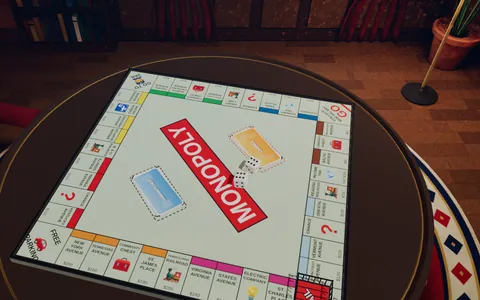
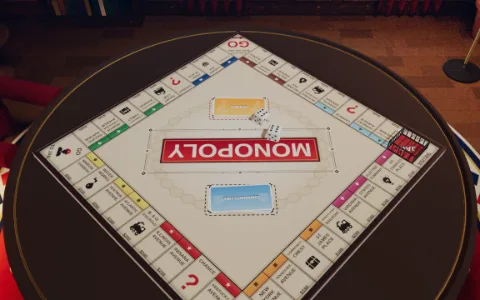
Lobby: new board pictures; theme names wrap instead of clipping
The map cards' pictures are recaptured from the lobby's 3D board with the
Original theme, so they show Heritage, Rainbow Road and Night City. Theme
cards keep their "Selected" badge and wrap long names.

Claude-Session: https://claude.ai/code/session_01Saq1C2M9Q8PgAMcXJP8Bqj

diff --git a/client/src/styles/boards.css b/client/src/styles/boards.css
@@ -18,9 +18,9 @@
 .bp .map-card .map-thumb { aspect-ratio: 16 / 10; }
 .bp-facts { font-weight: 800; letter-spacing: 0.01em; }
 
-.bp-theme { gap: 5px; overflow: hidden; }
+.bp-theme { gap: 5px; }
 .bp-theme .bp-name { display: flex; align-items: center; gap: 7px; min-width: 0; }
-.bp-theme .bp-name b { white-space: nowrap; overflow: hidden; text-overflow: ellipsis; }
+.bp-theme .bp-name b { white-space: normal; line-height: 1.05; }
 .bp-theme .edition-logo { width: 28px; height: 28px; flex: none; }
 .bp-look {
   align-self: flex-start; padding: 2px 9px 3px; border-radius: 99px; font: 700 11px/1.3 var(--font, Inter), system-ui, sans-serif;
